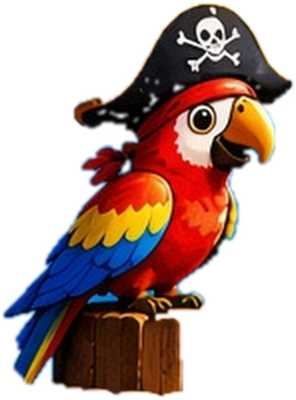
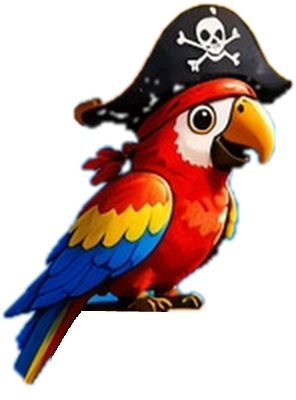
Updating pirate outfit

Changed region(s): [[0.152, 0.78, 0.6385, 1.0]]

diff --git a/app/src/main/java/com/spellarcade/app/ui/screens/games/PirateBlasterScreen.kt b/app/src/main/java/com/spellarcade/app/ui/screens/games/PirateBlasterScreen.kt
@@ -39,6 +39,7 @@ import com.spellarcade.app.data.model.AvatarConfig
 import com.spellarcade.app.ui.components.ReadyOverlay
 import com.spellarcade.app.ui.components.avatar.HeroAnimationState
 import com.spellarcade.app.ui.components.avatar.HeroSprite
+import com.spellarcade.app.ui.screens.profile.character.CharacterLayerType
 import com.spellarcade.app.util.MusicManager
 import kotlinx.coroutines.delay
 
@@ -157,10 +158,10 @@ fun PirateBlasterScreen(
         var backgroundScrollSpeed by remember { mutableFloatStateOf(105f) }   // pixels per second
         var zoomFactor by remember { mutableFloatStateOf(1.0f) }           // 1.0 = exact height, higher = zoom in
         var backgroundVerticalOffset by remember { mutableFloatStateOf(-50f) } // dp (0 = aligned to top)
-        var seamOffset by remember { mutableFloatStateOf(-724f) }              // negative = pull copies closer (try -2f to -8f)
-        var heroBottomPadding by remember { mutableFloatStateOf(16f) }
-        var heroEndPadding by remember { mutableFloatStateOf(16f) }
-        var parrotBottomPadding by remember { mutableFloatStateOf(155f) }
+        var seamOffset by remember { mutableFloatStateOf(-735f) }              // negative = pull copies closer (try -2f to -8f)
+        var heroBottomPadding by remember { mutableFloatStateOf(130f) }
+        var heroEndPadding by remember { mutableFloatStateOf(-60f) }
+        var parrotBottomPadding by remember { mutableFloatStateOf(165f) }
         var parrotStartPadding by remember { mutableFloatStateOf(5f) }
         var foregroundWidthScale by remember { mutableFloatStateOf(1.02f) } // 1.02 = slightly wider to cover edge gaps
 // ===============================================================
@@ -243,27 +244,33 @@ fun PirateBlasterScreen(
             val bitmapWidth = foregroundBitmap.width.toFloat()
             val bitmapHeight = foregroundBitmap.height.toFloat()
 
+            val extraWidth = 60.dp
             Box(
                 modifier = Modifier
-                    .fillMaxSize()
+                     .fillMaxSize()
                     .zIndex(1f),
                 contentAlignment = Alignment.BottomCenter
             ) {
+
+
+
                 Box(
+
                     modifier = Modifier
-                        .fillMaxWidth(foregroundWidthScale)
-                        .offset(y = 0.dp)
+                         .fillMaxSize()
+                        .offset(y = 50.dp)
                         .graphicsLayer {
                             translationY = dockOffsetY
                             rotationZ = dockRotation
                             transformOrigin = TransformOrigin(0.5f, 1.0f)
                         }
                 ) {
+
                     Image(
                         bitmap = foregroundBitmap,
                         contentDescription = "Foreground Dock",
                         modifier = Modifier
-                            .fillMaxWidth()
+                             .fillMaxSize()
                             .aspectRatio(
                                 if (bitmapWidth > 0f && bitmapHeight > 0f)
                                     bitmapWidth / bitmapHeight
@@ -352,8 +359,15 @@ fun PirateBlasterScreen(
                                         scaleY = 0.45f
                                     },
                                 animationState = if (uiState.isCorrect == true) HeroAnimationState.VICTORY else HeroAnimationState.IDLE,
-                                sway = true,
-                                breath = false
+                                sway = false,
+                                breath = false,
+                                overrideTopPath = "sprites/special/pirate_blaster/pirate_blaster_clothes.png",
+                                layerVisibility = mapOf(
+                                    CharacterLayerType.HAIR to false,
+                                    CharacterLayerType.HAT to false,
+                                    CharacterLayerType.SHOES to false,
+                                    CharacterLayerType.BOTTOM to false
+                                )
                             )
                         }
                     }
